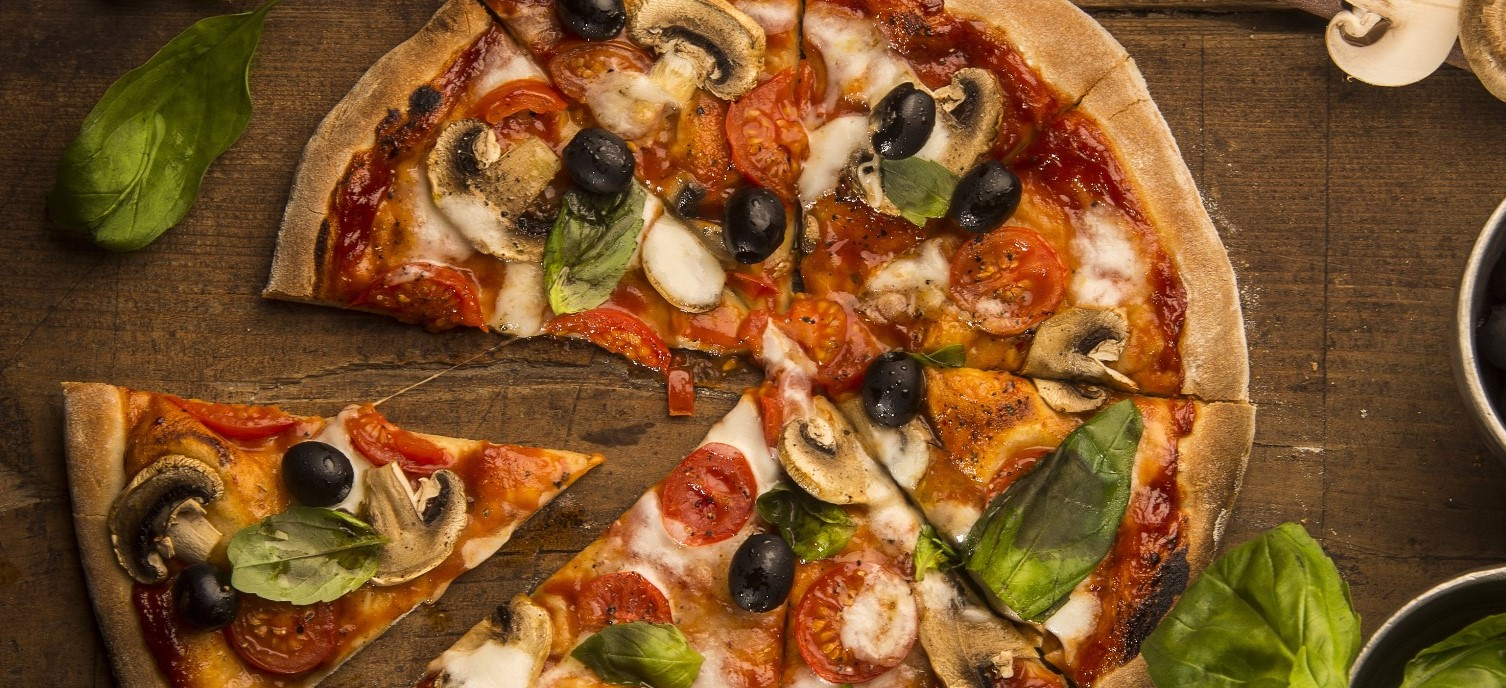
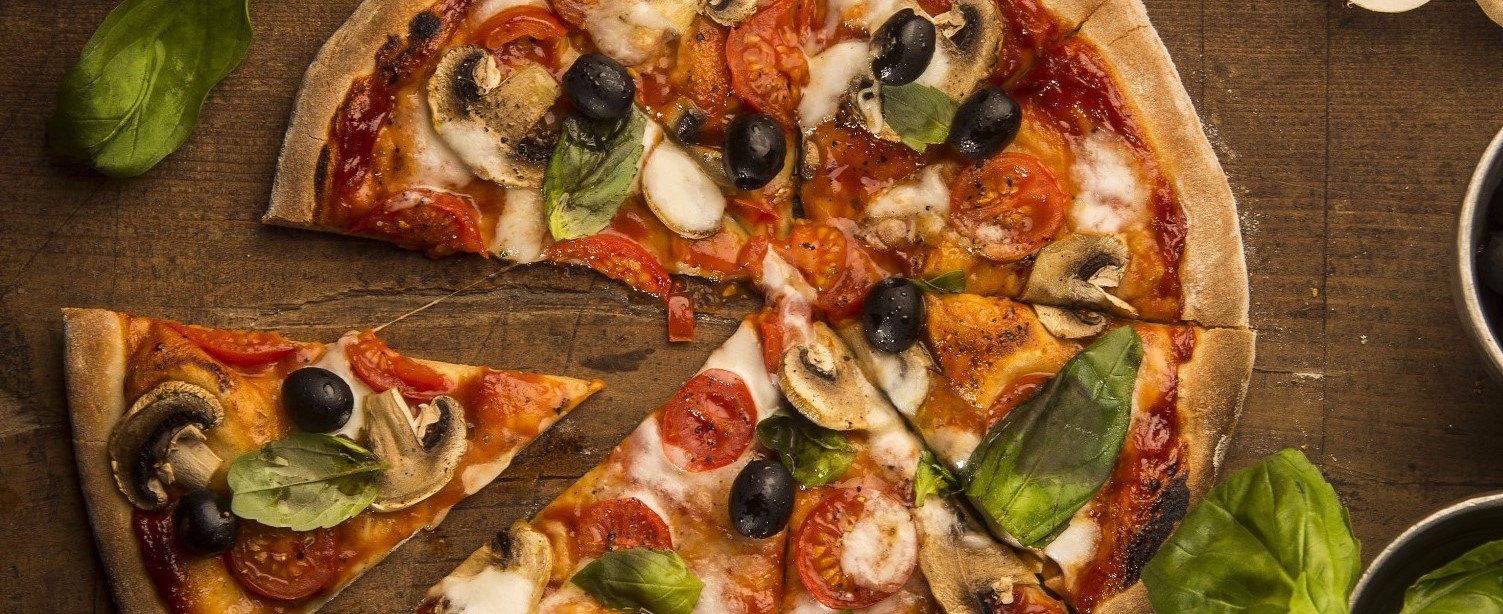
html.csss

diff --git a/index.html b/index.html
@@ -6,8 +6,60 @@
     <link rel="stylesheet" href="style.css">
     <title>Pizza</title>
 </head>
+<header><h3 id="menu"><a href="http://wikipedia">Kezdőlap</a> / Menü / Rólunk / Kapcsolat</h3></header>
 <body>
-    <h2 id="fejlec">Pizzéria</h2>
+    <h2 id="fejlec">PIZZÉRIA</h2> 
+    
+    <div id="keret">
+        <div id="etterem">
+            <H2 id="pia-pizza">PIADINA PIZZÉRIA</H2> 
+            <p>Történetünk</p>
+            
+                <p>
+                    Lorem, ipsum dolor sit amet consectetur adipisicing elit. Quasi voluptate obcaecati qui. Facere quo sunt illo, voluptatem animi maiores, odit architecad vitae eos doloribus eaque corporis minima magnam in?
+                Voluptatem saepe, labore vel magni cumque perspiciatis alias recusandae. Rerum quasi aut nam modi numquam quibusdam officia maxime asperiores neque ea blanditiis saepe ipsum, corrupti obcaecati impedit, molestias magnam. Repudiandae.
+            </p>
+                
+           
+            
+
+
+        </div>
+
+
+
+
+
+
+
+
+
+
+
+
+
+
+
+
+
+
+
+
+
+
+
+
+
+
+
+
+
+
+
+
+
+    </div>
+   
     
 </body>
 </html>

diff --git a/style.css b/style.css
@@ -1,7 +1,11 @@
 #fejlec{
     background-image:url(image/fejlec.jpg) ;
     width: 100%;
-    height: 600px;
+    background-repeat: no-repeat;
+    height: 400px;
+   margin: auto;
+
+    background-size: cover;
 
 }
 body{
@@ -9,4 +13,30 @@ body{
 }
 h2{
     color: white;
+}
+#menu{
+    float: right;
+    color: white;
+    margin: auto;
+    padding: 15px;
+}
+a{
+color: white;
+text-decoration: none;
+
+}
+#keret{
+    width: 1100px;
+    margin: auto;
+
+}
+p{
+    color: white;
+    text-align: center;
+}
+#pia-pizza{
+    text-align:center ;
+
+
+
 }
